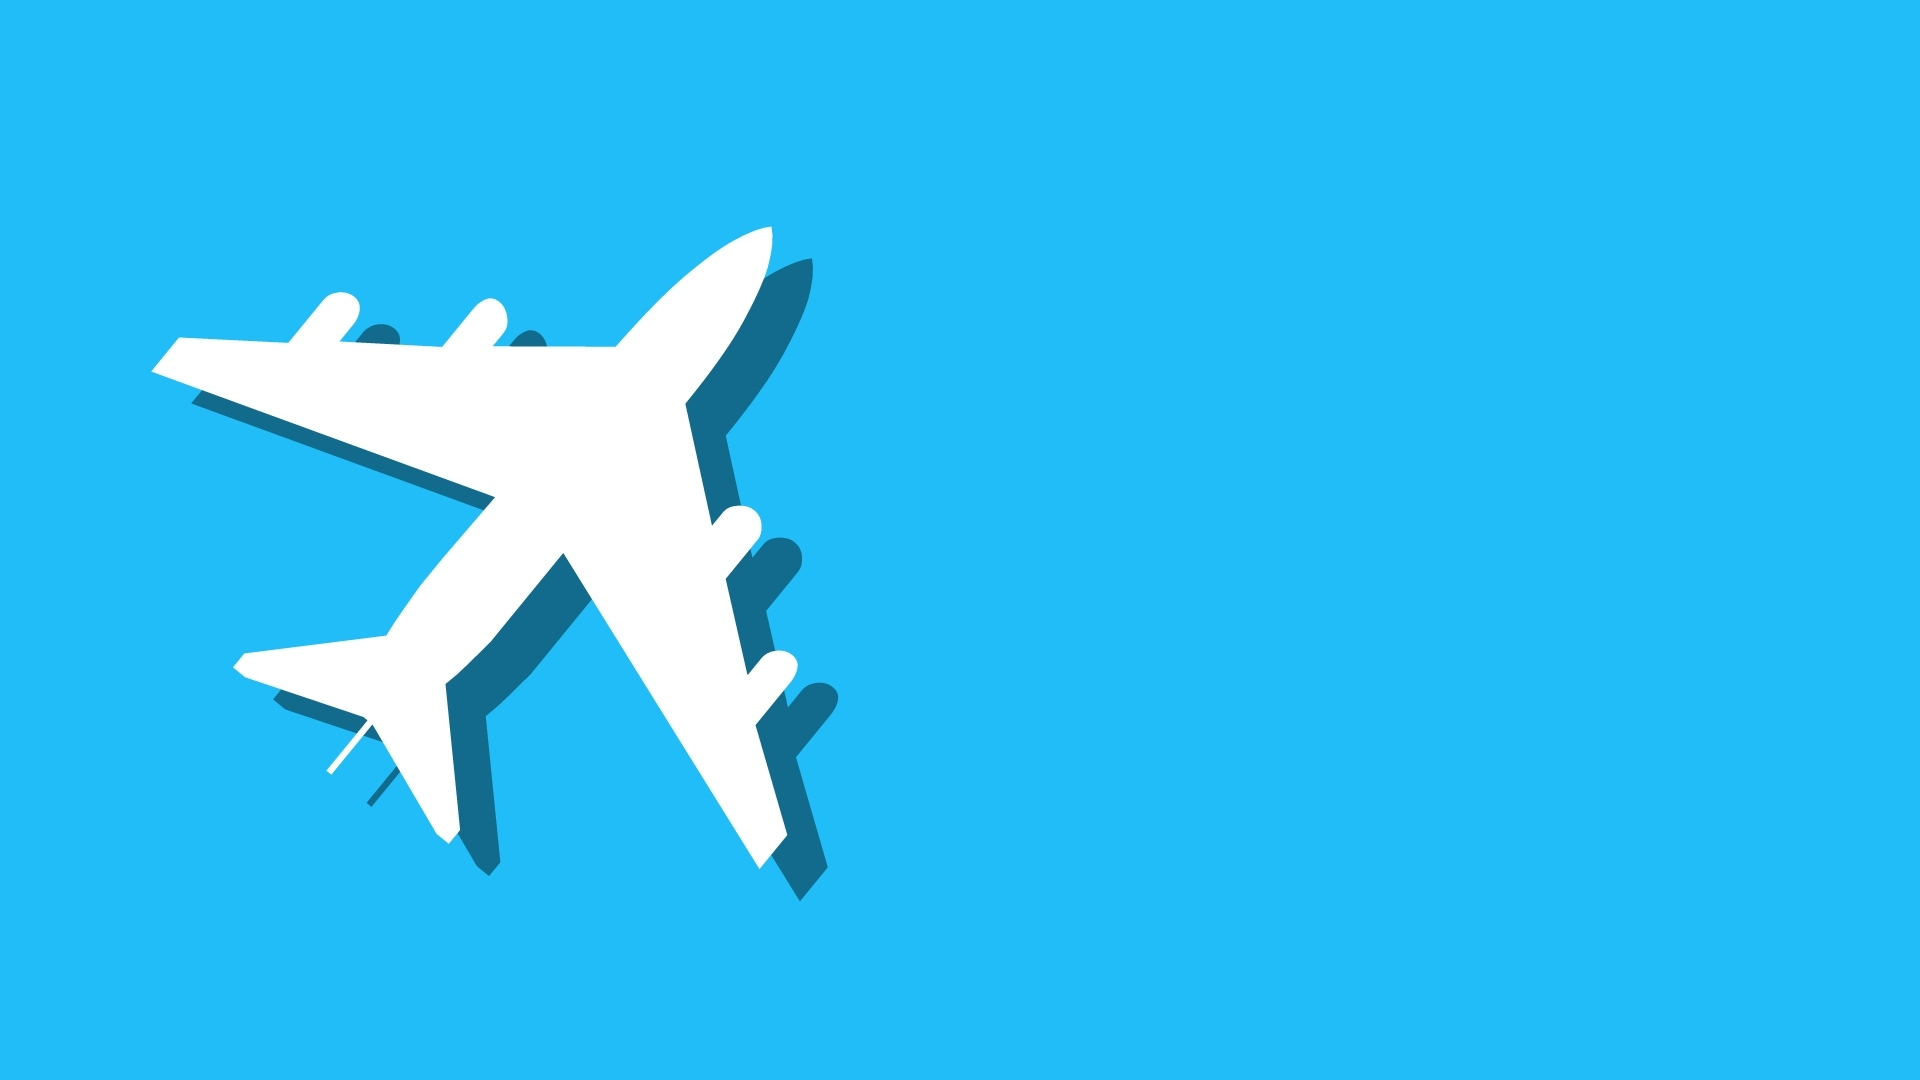
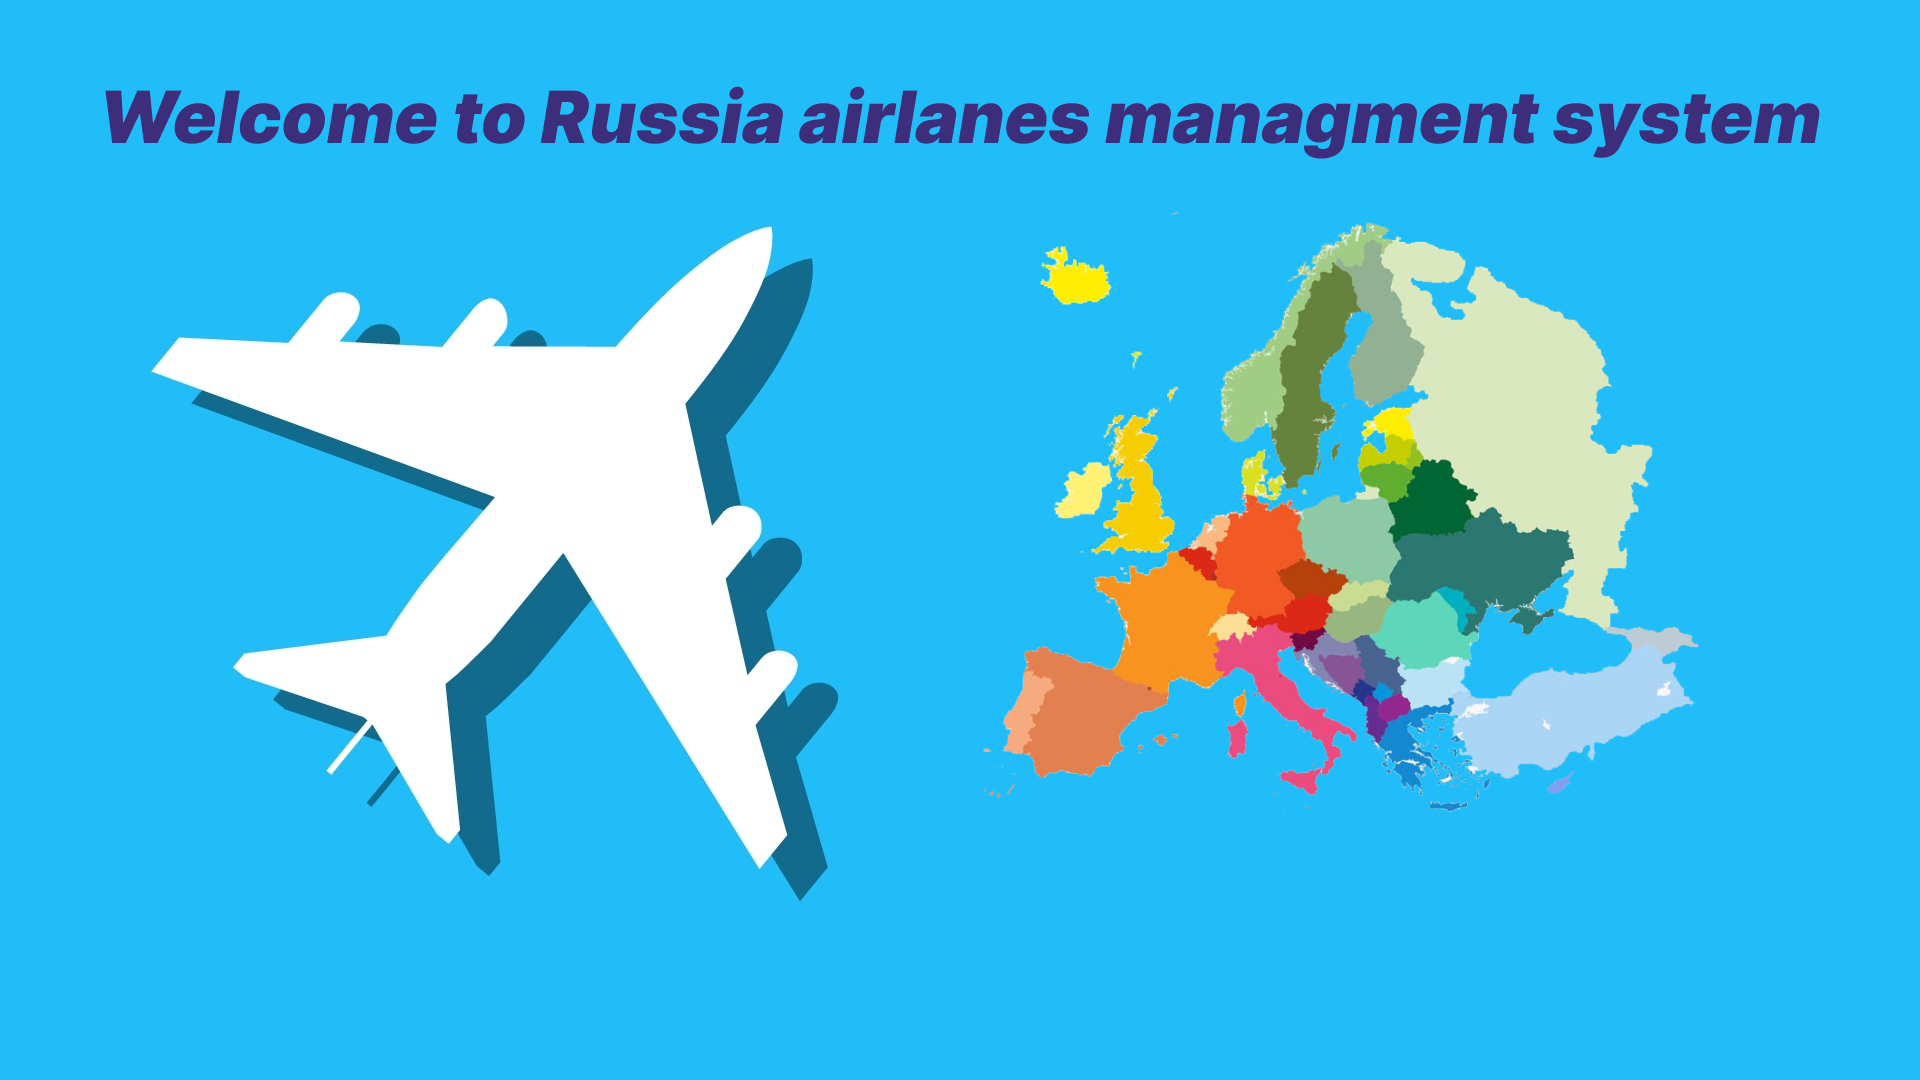
asd

diff --git a/src/russiaairlanesmanagmentsystem/AddCustomer.java b/src/russiaairlanesmanagmentsystem/AddCustomer.java
@@ -1,0 +1,139 @@
+package russiaairlanesmanagmentsystem;
+
+import javax.swing.*;
+import java.awt.*;
+import java.awt.event.ActionEvent;
+import java.awt.event.ActionListener;
+
+public class AddCustomer extends JFrame implements ActionListener {
+    JLabel customerName, customerNationality, customerNumber, customerAddress, customerGender;
+    JTextField customerNameField, customerNationalityField, customerNumberField, customerAddressField;
+    ButtonGroup buttonGroup = new ButtonGroup();
+    JRadioButton rbMale, rbFemale, rbOther;
+    JButton resetButton, addCustomerButton, backButton;
+    public AddCustomer() {
+        getContentPane().setBackground(Color.WHITE);
+        setTitle("Add Customer");
+        ImageIcon imageSource = new ImageIcon(ClassLoader.getSystemResource("russiaairlanesmanagmentsystem/img/add-customer.png"));
+        JLabel customerBackground = new JLabel(imageSource);
+        customerBackground.setBounds(0, 0, imageSource.getIconWidth(), imageSource.getIconHeight());
+        add(customerBackground);
+
+        customerName = new JLabel("Name:");
+        customerName.setBounds(20, 100, 150, 35);
+        customerName.setFont(new Font("BLACK-ITALIC", Font.ITALIC, 18));
+        customerBackground.add(customerName);
+
+        customerNameField = new JTextField();
+        customerNameField.setBounds(120, 100, 350, 35);
+        customerNameField.setFont(new Font("BLACK-ITALIC", Font.PLAIN, 18));
+        customerBackground.add(customerNameField);
+
+        customerNationality = new JLabel("Nationality:");
+        customerNationality.setBounds(20, 150, 150, 35);
+        customerNationality.setFont(new Font("BLACK-ITALIC", Font.ITALIC, 18));
+        customerBackground.add(customerNationality);
+
+        customerNationalityField = new JTextField();
+        customerNationalityField.setBounds(120, 150, 350, 35);
+        customerNationalityField.setFont(new Font("BLACK-ITALIC", Font.PLAIN, 18));
+        customerBackground.add(customerNationalityField);
+
+        customerNumber = new JLabel("Number:");
+        customerNumber.setBounds(20, 200, 150, 35);
+        customerNumber.setFont(new Font("BLACK-ITALIC", Font.ITALIC, 18));
+        customerBackground.add(customerNumber);
+
+        customerNumberField = new JTextField();
+        customerNumberField.setBounds(120, 200, 350, 35);
+        customerNumberField.setFont(new Font("BLACK-ITALIC", Font.PLAIN, 18));
+        customerBackground.add(customerNumberField);
+
+        customerAddress = new JLabel("Address:");
+        customerAddress.setBounds(20, 250, 150, 35);
+        customerAddress.setFont(new Font("BLACK-ITALIC", Font.ITALIC, 18));
+        customerBackground.add(customerAddress);
+
+        customerAddressField = new JTextField();
+        customerAddressField.setBounds(120, 250, 350, 35);
+        customerAddressField.setFont(new Font("BLACK-ITALIC", Font.PLAIN, 18));
+        customerBackground.add(customerAddressField);
+
+        customerGender = new JLabel("Gender:");
+        customerGender.setBounds(20, 300, 150, 35);
+        customerGender.setFont(new Font("BLACK-ITALIC", Font.ITALIC, 18));
+        customerBackground.add(customerGender);
+
+        rbMale = new JRadioButton("Male");
+        rbMale.setBounds(120, 300, 80, 35);
+        customerBackground.add(rbMale);
+
+        rbFemale = new JRadioButton("Female");
+        rbFemale.setBounds(210, 300, 80, 35);
+        customerBackground.add(rbFemale);
+
+        rbOther = new JRadioButton("Other");
+        rbOther.setBounds(300, 300, 80, 35);
+        customerBackground.add(rbOther);
+
+        buttonGroup.add(rbMale);
+        buttonGroup.add(rbFemale);
+        buttonGroup.add(rbOther);
+
+        addCustomerButton = new JButton("Add");
+        addCustomerButton.setBounds(20, 350, 100, 35);
+        addCustomerButton.addActionListener(this);
+        addCustomerButton.setActionCommand("addCustomer");
+        customerBackground.add(addCustomerButton);
+
+        backButton = new JButton("Back");
+        backButton.setBounds(130, 350, 100, 35);
+        backButton.addActionListener(this);
+        backButton.setActionCommand("back");
+        customerBackground.add(backButton);
+
+        resetButton = new JButton("Reset");
+        resetButton.setBounds(240, 350, 100, 35);
+        resetButton.addActionListener(this);
+        resetButton.setActionCommand("reset");
+        customerBackground.add(resetButton);
+
+        setSize(900, 500);
+        setLocationRelativeTo(null);
+        setVisible(true);
+    }
+    @Override
+    public void actionPerformed(ActionEvent e) {
+        if (e.getActionCommand().equals("addCustomer")) {
+                String name = customerNameField.getText();
+                String nationality = customerNationalityField.getText();
+                String number = customerNumberField.getText();
+                String address = customerAddressField.getText();
+                String gender = "";
+                if (rbMale.isSelected()) {
+                    gender = rbMale.getText();
+                } else if (rbFemale.isSelected()) {
+                    gender = rbFemale.getText();
+                } else if (rbOther.isSelected()) {
+                    gender = rbOther.getText();
+                } if (name.isEmpty() || nationality.isEmpty() || number.isEmpty() || address.isEmpty() || gender.isEmpty()) {
+                    JOptionPane.showMessageDialog(this, "Please fill all the fields");
+            }
+        }
+        if (e.getActionCommand().equals("reset")) {
+            customerNameField.setText("");
+            customerNationalityField.setText("");
+            customerNumberField.setText("");
+            customerAddressField.setText("");
+            rbMale.setSelected(false);
+            rbFemale.setSelected(false);
+            rbOther.setSelected(false);
+        }
+        if (e.getActionCommand().equals("back")) {
+            setVisible(false);
+        }
+    }
+    public static void main(String[] args) {
+        new AddCustomer();
+    }
+}

diff --git a/src/russiaairlanesmanagmentsystem/Home.java b/src/russiaairlanesmanagmentsystem/Home.java
@@ -1,26 +1,21 @@
 package russiaairlanesmanagmentsystem;
 
 import javax.swing.*;
-import java.awt.*;
 import java.awt.event.*;
 
 public class Home extends JFrame implements ActionListener {
     public Home() {
-        setVisible(true);
-        setExtendedState(JFrame.MAXIMIZED_BOTH);
-        setTitle("Home page");
-
         ImageIcon imageIcon = new ImageIcon(ClassLoader.getSystemResource("russiaairlanesmanagmentsystem/img/plane-main-background.jpg"));
         JLabel backgroundImage = new JLabel(imageIcon);
         backgroundImage.setBounds(0, 0, imageIcon.getIconWidth(), imageIcon.getIconHeight());
         add(backgroundImage);
 
-        JLabel headingLabel = new JLabel("Welcome to Russia airlanes managment system");
+        /* JLabel headingLabel = new JLabel("Welcome to Russia airlanes managment system");
         headingLabel.setBounds(500,10,1000,200);
         headingLabel.setHorizontalAlignment(SwingConstants.CENTER);
         headingLabel.setForeground(Color.BLACK);
         headingLabel.setFont(new Font("Serif", Font.PLAIN, 40));
-        backgroundImage.add(headingLabel);
+        backgroundImage.add(headingLabel); */
 
         JMenuBar menuBar = new JMenuBar();
         setJMenuBar(menuBar);
@@ -74,6 +69,10 @@ public class Home extends JFrame implements ActionListener {
         ticket.add(boardingPass);
         boardingPass.addActionListener(this);
         boardingPass.setActionCommand("BoardingPass");
+
+        setVisible(true);
+        setExtendedState(JFrame.MAXIMIZED_BOTH);
+        setTitle("Home page");
     }
 
     @Override
@@ -85,7 +84,7 @@ public class Home extends JFrame implements ActionListener {
 
         }
         if (e.getActionCommand().equals("AddCustomerDetails")) {
-
+            new AddCustomer();
         }
         if (e.getActionCommand().equals("ReservationDetails")) {
 

diff --git a/src/russiaairlanesmanagmentsystem/Login.java b/src/russiaairlanesmanagmentsystem/Login.java
@@ -10,12 +10,6 @@ public class Login extends JFrame implements ActionListener {
     JTextField jtfUsername;
     JPasswordField jpfPassword;
     public Login() {
-        setVisible(true);
-        setSize(400,300);
-        setTitle("Login form");
-        setLocation(920,520);
-        setLayout(null);
-
         //Username label
         JLabel lblUsername = new JLabel("Username: "); //Creating label
         lblUsername.setBounds(20,20,100,20); // Entering position of new label (fixed XYWH)
@@ -53,6 +47,12 @@ public class Login extends JFrame implements ActionListener {
         jbExit.setBounds(200,220,100,20);
         jbExit.addActionListener(this);
         add(jbExit);
+
+        setVisible(true);
+        setSize(400,300);
+        setTitle("Login form");
+        setLocation(920,520);
+        setLayout(null);
     }
 
     @Override
